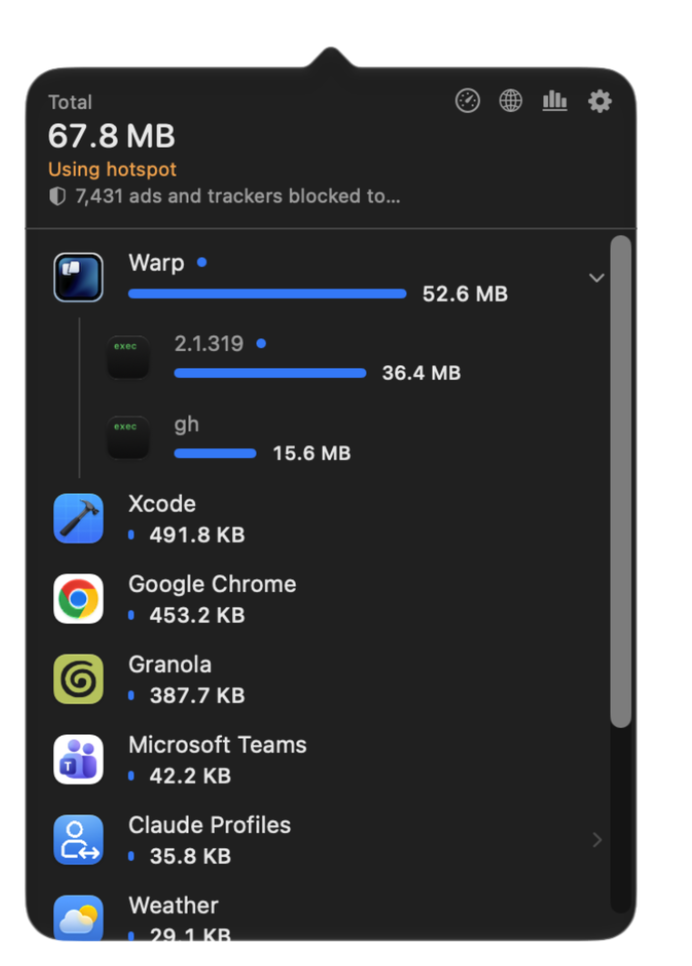
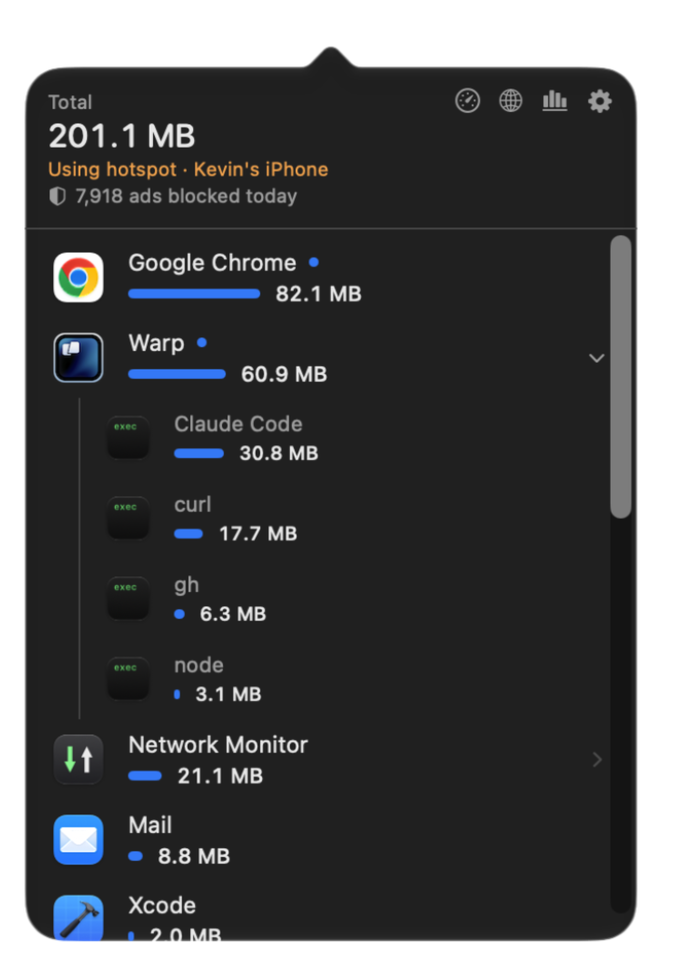
Site for 1.26.6
Version, download line and release link; the popover pictures retaken for
the connection line and the shorter ads line (#369, #390), with alt text to
match.

diff --git a/index.html b/index.html
@@ -459,7 +459,7 @@ footer a { color: var(--text-2); }
         <a class="btn" href="https://github.com/kevinabouhanna/NetworkMonitor/releases/latest/download/NetworkMonitor.dmg" data-download>Download for Mac</a>
         <a class="more" href="https://github.com/kevinabouhanna/NetworkMonitor">View on GitHub</a>
       </div>
-      <p class="hero-meta reveal d3"><span>Version 1.26.5</span><span>macOS 13 or later</span><span>Apple silicon and Intel</span><span>Free and open source</span></p>
+      <p class="hero-meta reveal d3"><span>Version 1.26.6</span><span>macOS 13 or later</span><span>Apple silicon and Intel</span><span>Free and open source</span></p>
       <div class="featured reveal d3">
         <a href="https://www.trymacapps.com" target="_blank" rel="noopener">
           <img
@@ -597,14 +597,14 @@ footer a { color: var(--text-2); }
           <p class="kicker">Sub-processes</p>
           <h3 class="h4">Credit where it’s due.</h3>
           <p class="copy">Helpers fold into the app that owns them, so Chrome’s dozen helper processes are one <strong>Google Chrome</strong> row. Commands started from a terminal break out beneath it, each with its own figure.</p>
-          <img src="assets/popover-subprocesses.png?v=6dabdfe8" width="692" height="966" loading="lazy"
-               alt="The popover, with Total and how much was used today, the ads and trackers blocked today, and four buttons at the top right: Speed test, Connections, Usage History and Settings. Below, apps biggest first, each with its icon, a bar and how much it used; the first app that has sub-processes is open, showing each one beneath it with its own bar and figure.">
+          <img src="assets/popover-subprocesses.png?v=42b9d3ae" width="692" height="966" loading="lazy"
+               alt="The popover, with Total and how much was used today, which connection is in use (here a hotspot, named after the phone sharing it), the ads blocked today, and four buttons at the top right: Speed test, Connections, Usage History and Settings. Below, apps biggest first, each with its icon, a bar and how much it used; the first app that has sub-processes is open, showing each one beneath it with its own bar and figure.">
         </div>
         <div class="tile shot span-3 reveal d1">
           <p class="kicker">System</p>
           <h3 class="h4">macOS noise, folded away.</h3>
           <p class="copy">Dozens of system daemons collapse into a single <strong>System</strong> row at the bottom of the list. Open it when you’re curious; ignore it when you’re not.</p>
-          <img src="assets/popover-system.png?v=455869d7" width="692" height="966" loading="lazy"
+          <img src="assets/popover-system.png?v=8f99131b" width="692" height="966" loading="lazy"
                alt="The bottom of the popover's list: the smallest apps, each with its icon, a bar and how much it used, and last, System, grouping macOS's own processes, with how many and how much they used together.">
         </div>
         <div class="tile span-2 reveal">
@@ -842,7 +842,7 @@ footer a { color: var(--text-2); }
                  alt="The Hotspot pane with Paused on a hotspot open: one line per app found on this Mac, each with its switch, all on, NetworkMonitor itself among them. Two lines group the rest: Through NetworkMonitor's helper, naming macOS updates, App Store apps, Chrome, Slack and others, and Through their update folders, naming the apps whose update folder is locked. The pane scrolls to Can't be paused, closed.">
             <img class="prefs-shot" data-shot="hotspot-uncovered" data-w="720" data-h="650" src="assets/settings/hotspot-uncovered.png?v=45d3afc2" width="1440" height="1300" loading="lazy" aria-hidden="true"
                  alt="The Hotspot pane with Can't be paused open: the apps it can't pause, with why behind an ⓘ that appears when you point at the row. Quit these while you're on a hotspot to be sure they don't update. Every app's updater: Stopped on hotspots, including ones listed as can't be paused when they update with a program of their own.">
-            <img class="prefs-shot" data-shot="about" data-w="720" data-h="710" src="assets/settings/about.png?v=50ad72bb" width="1440" height="1420" loading="lazy" aria-hidden="true"
+            <img class="prefs-shot" data-shot="about" data-w="720" data-h="710" src="assets/settings/about.png?v=6dd0bf00" width="1440" height="1420" loading="lazy" aria-hidden="true"
                  alt="The About pane: the NetworkMonitor icon, its version, and Live network speed in your menu bar, and which app used your data. Links to the website, the release notes and the source code on GitHub. Free and open source, under the MIT licence. Check for updates automatically is on, with a Check Now button: once a day it asks GitHub whether there's a newer version, never on a hotspot, and an update installs only when you say so, and only if it's signed by NetworkMonitor. Remove NetworkMonitor, with an Uninstall… button.">
             <button class="prefs-row" type="button" aria-expanded="false" data-row="apps" style="--x:-340;--y:274;--w:680;--h:44" hidden>Paused on a hotspot</button>
             <button class="prefs-row" type="button" aria-expanded="false" data-row="uncovered" style="--x:-340;--y:372;--w:680;--h:44" hidden>Can’t be paused</button>
@@ -900,7 +900,7 @@ footer a { color: var(--text-2); }
           <p>The usual Mac way: open the disk image and drag NetworkMonitor into <strong>Applications</strong>.</p>
           <div class="get">
             <a class="btn" href="https://github.com/kevinabouhanna/NetworkMonitor/releases/latest/download/NetworkMonitor.dmg" data-download>Download NetworkMonitor.dmg</a>
-            <span class="meta">Version 1.26.5 · 13.9 MB · Universal</span>
+            <span class="meta">Version 1.26.6 · 13.9 MB · Universal</span>
           </div>
           <figure class="dmg-shot" style="margin-bottom:0">
             <img src="assets/dmg-window.png?v=5630c3c3" width="1424" height="1104" loading="lazy"
@@ -917,7 +917,7 @@ footer a { color: var(--text-2); }
       </div>
 
       <div class="ctas reveal">
-        <a class="more" href="https://github.com/kevinabouhanna/NetworkMonitor/releases/tag/v1.26.5">What’s in version 1.26.5</a>
+        <a class="more" href="https://github.com/kevinabouhanna/NetworkMonitor/releases/tag/v1.26.6">What’s in version 1.26.6</a>
         <a class="more" href="https://github.com/kevinabouhanna/NetworkMonitor/wiki">Documentation</a>
         <a class="more" href="https://github.com/kevinabouhanna/NetworkMonitor">View on GitHub</a>
       </div>
